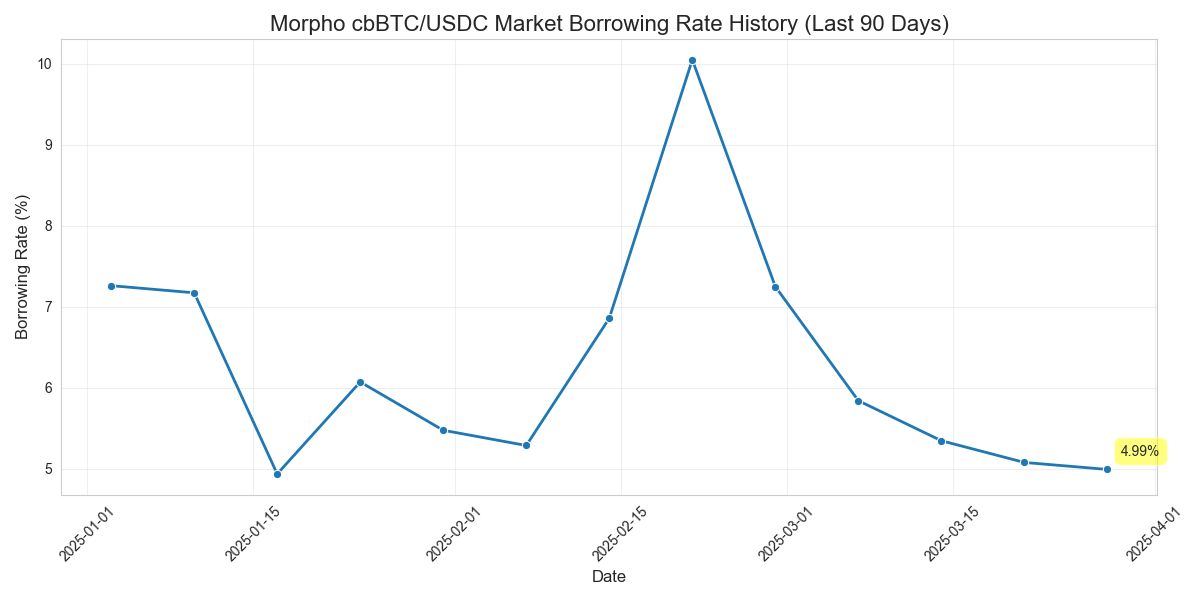
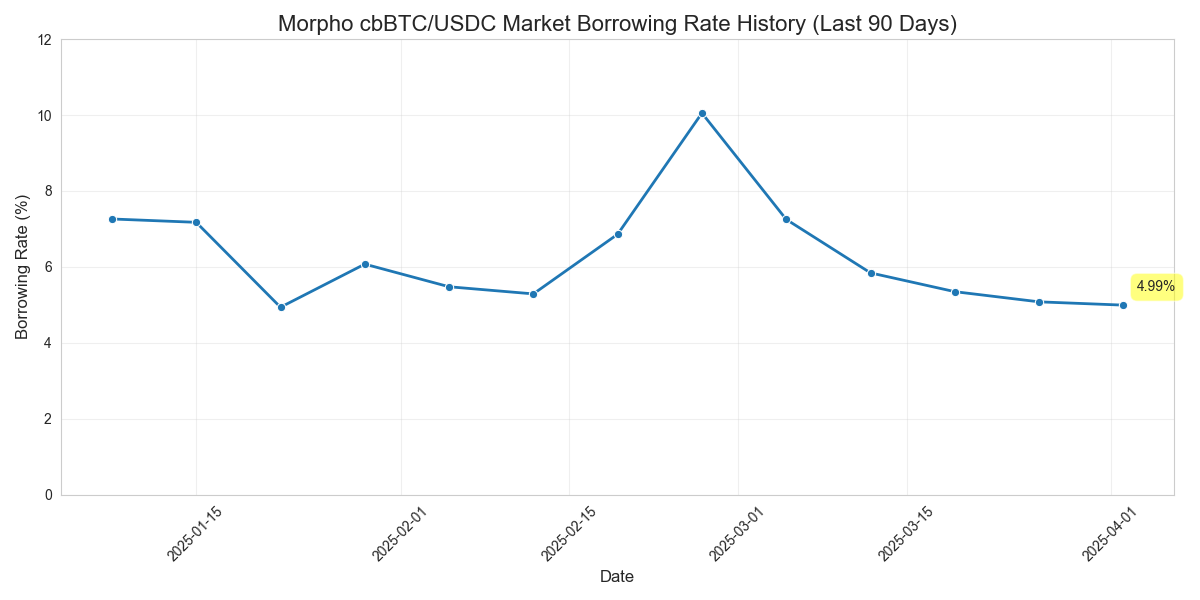
Modified rate_py script to use 2-unit y-axis

diff --git a/queries/py-scripts/morpho_borrow_rate_history_90d.py b/queries/py-scripts/morpho_borrow_rate_history_90d.py
@@ -223,6 +223,10 @@ def plot_borrow_rate_history(df, output_dir):
     ax.xaxis.set_major_formatter(mdates.DateFormatter('%Y-%m-%d'))
     plt.xticks(rotation=45)
     
+    # Set y-axis to start at 0 and increment by 2
+    plt.ylim(0, 12)  # Set limit from 0 to 12 to ensure space for the highest point
+    plt.yticks(range(0, 13, 2))  # Creates ticks at 0, 2, 4, 6, 8, 10, 12
+    
     # Add grid
     plt.grid(True, alpha=0.3)
     
